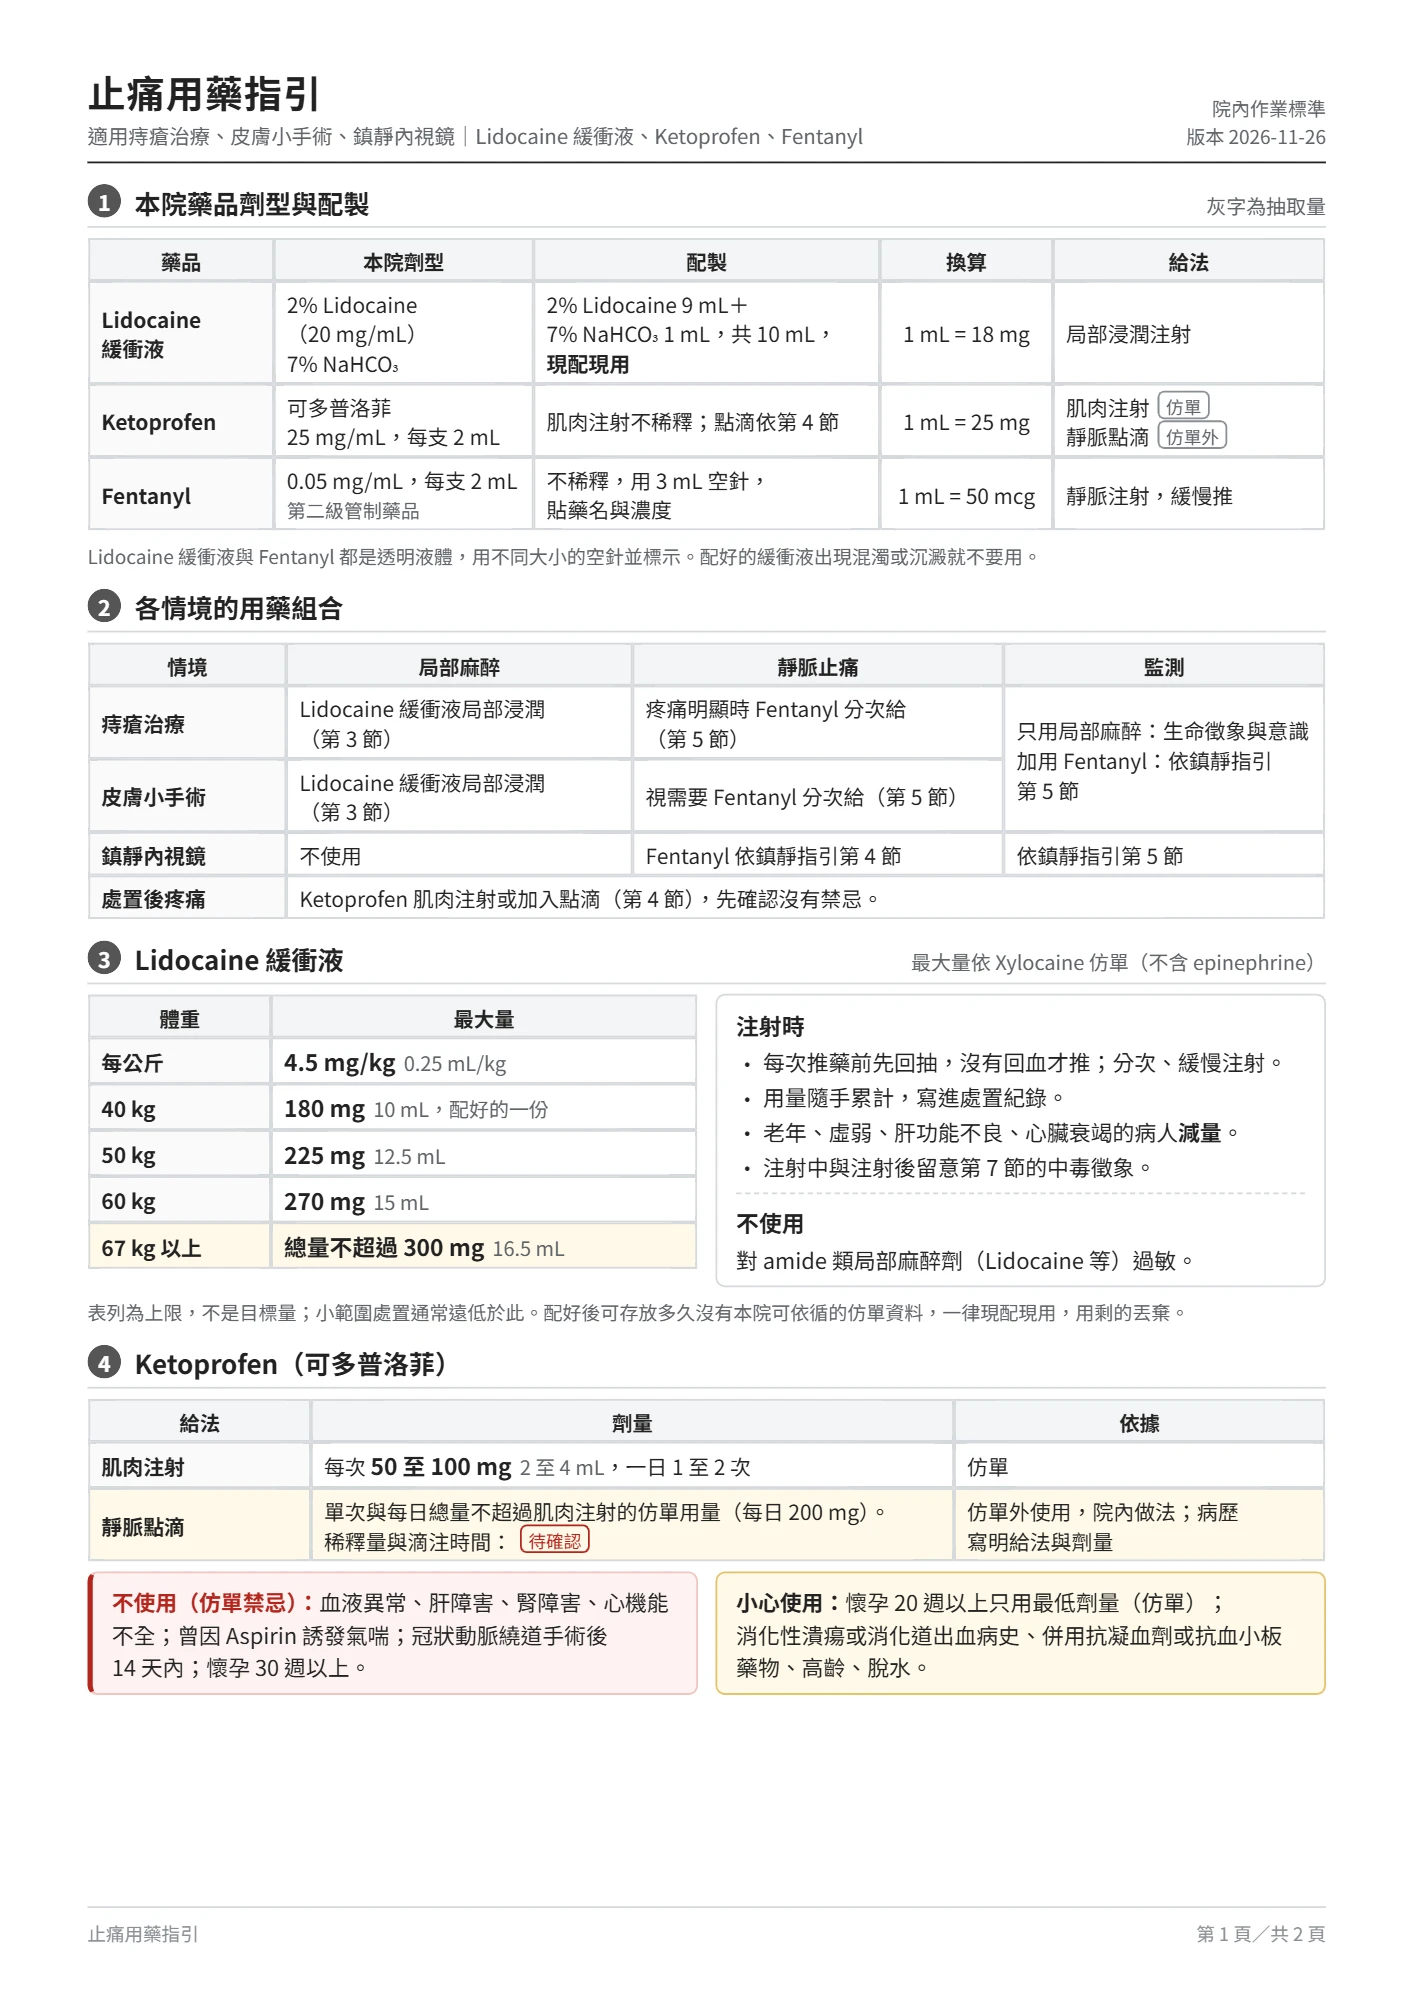
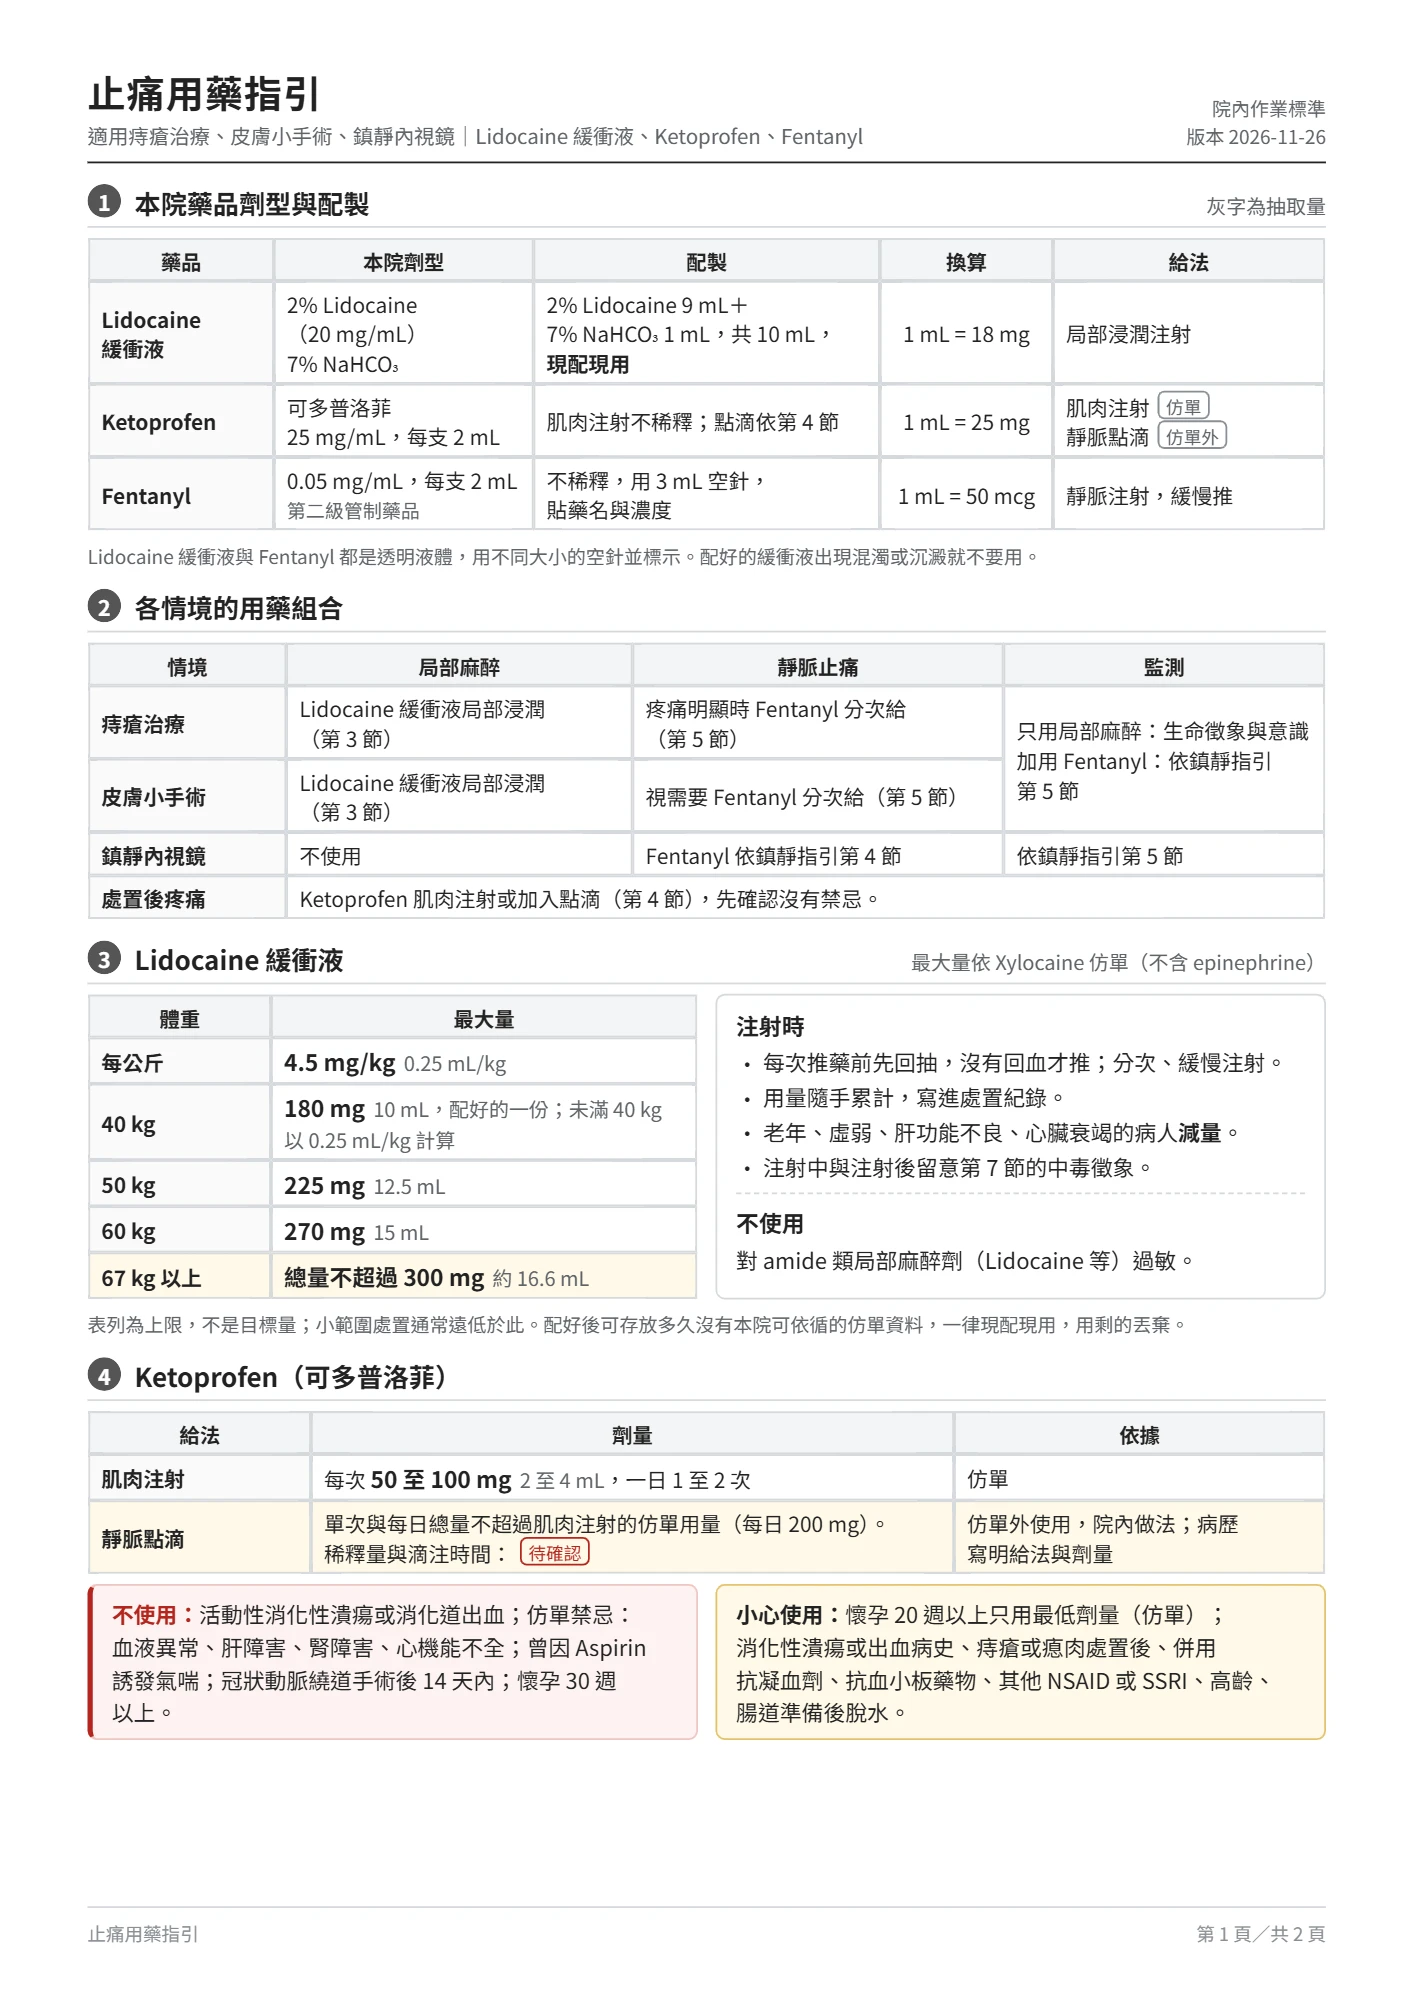
止痛指引：依 aria 查核修正（Lidocaine 上限約 16.6 mL、Ketoprofen 禁忌分級、LAST 觀察 4 至 6 小時）

Changed region(s): [[0.0622, 0.5273, 0.9335, 0.8684]]

diff --git a/guide-src/analgesia-guide.html b/guide-src/analgesia-guide.html
@@ -130,10 +130,10 @@ ul.dots{padding-left:4.4mm;} ul.dots li{margin:.3mm 0;}
         <thead><tr><th style="width:30%">體重</th><th>最大量</th></tr></thead>
         <tbody>
           <tr><th>每公斤</th><td><span class="dose">4.5 mg/kg</span><span class="ml">0.25 mL/kg</span></td></tr>
-          <tr><th>40 kg</th><td><span class="dose">180 mg</span><span class="ml">10 mL，配好的一份</span></td></tr>
+          <tr><th>40 kg</th><td><span class="dose">180 mg</span><span class="ml">10 mL，配好的一份；未滿 40 kg 以 0.25 mL/kg 計算</span></td></tr>
           <tr><th>50 kg</th><td><span class="dose">225 mg</span><span class="ml">12.5 mL</span></td></tr>
           <tr><th>60 kg</th><td><span class="dose">270 mg</span><span class="ml">15 mL</span></td></tr>
-          <tr class="key"><th>67 kg 以上</th><td><span class="dose">總量不超過 300 mg</span><span class="ml">16.5 mL</span></td></tr>
+          <tr class="key"><th>67 kg 以上</th><td><span class="dose">總量不超過 300 mg</span><span class="ml">約 16.6 mL</span></td></tr>
         </tbody>
       </table>
     </div>
@@ -165,10 +165,10 @@ ul.dots{padding-left:4.4mm;} ul.dots li{margin:.3mm 0;}
   </table>
   <div class="grid2">
     <div class="box warn">
-      <span class="warn-t">不使用（仿單禁忌）：</span>血液異常、肝障害、腎障害、心機能不全；曾因 Aspirin 誘發氣喘；冠狀動脈繞道手術後 14 天內；懷孕 30 週以上。
+      <span class="warn-t">不使用：</span>活動性消化性潰瘍或消化道出血；仿單禁忌：血液異常、肝障害、腎障害、心機能不全；曾因 Aspirin 誘發氣喘；冠狀動脈繞道手術後 14 天內；懷孕 30 週以上。
     </div>
     <div class="box care">
-      <span class="k">小心使用：</span>懷孕 20 週以上只用最低劑量（仿單）；消化性潰瘍或消化道出血病史、併用抗凝血劑或抗血小板藥物、高齡、脫水。
+      <span class="k">小心使用：</span>懷孕 20 週以上只用最低劑量（仿單）；消化性潰瘍或出血病史、痔瘡或瘜肉處置後、併用抗凝血劑、抗血小板藥物、其他 NSAID 或 SSRI、高齡、腸道準備後脫水。
     </div>
   </div>
 
@@ -238,7 +238,7 @@ ul.dots{padding-left:4.4mm;} ul.dots li{margin:.3mm 0;}
       <tr><th>抽搐</th><td>首選 benzodiazepine（例如 Midazolam）；血壓不穩時不用 Propofol。</td></tr>
       <tr class="key"><th>20% 脂肪乳劑</th><td><span class="k">體重 &gt; 70 kg：</span>2 至 3 分鐘推 100 mL，再於 15 至 20 分鐘滴完 200 至 250 mL。<br><span class="k">體重 ≤ 70 kg：</span>2 至 3 分鐘推 1.5 mL/kg（理想體重），再以每分鐘 0.25 mL/kg 滴注。<br>仍不穩定：再推 1 至 2 次、滴速加倍；總量上限約 12 mL/kg。</td></tr>
       <tr><th>心跳停止</th><td>依 ACLS 急救；epinephrine 每次 ≤ 1 mcg/kg。不用 vasopressin、鈣離子阻斷劑、β 阻斷劑或<span class="nw">其他局部麻醉劑</span>。</td></tr>
-      <tr><th>之後</th><td>只有神經症狀至少觀察 2 小時；出現心血管症狀至少觀察 4 小時，必要時轉院。</td></tr>
+      <tr><th>之後</th><td>只有神經症狀至少觀察 2 小時；出現心血管症狀至少觀察 4 至 6 小時，必要時轉院。</td></tr>
     </tbody>
   </table>
   <p class="note">本院急救車是否備有 20% 脂肪乳劑與存放位置：<span class="tag todo">待確認</span></p>

diff --git a/sw.js b/sw.js
@@ -9,7 +9,7 @@
    工作台開啟後會把所有衛教與表單圖片預先存下，斷網時也能顯示與列印。
    網路很慢（伺服器 3 秒內沒回應，圖片 6 秒）時先用快取開啟，背景照樣把新版存下，下次開啟就是新版；
    以前會一直等到連線逾時，網路卡住時整個工作台白畫面。 */
-const CACHE = 'tools-v130';
+const CACHE = 'tools-v131';
 const CORE = [
   './', 'index.html',
   'mount.js', 'revision.js',
